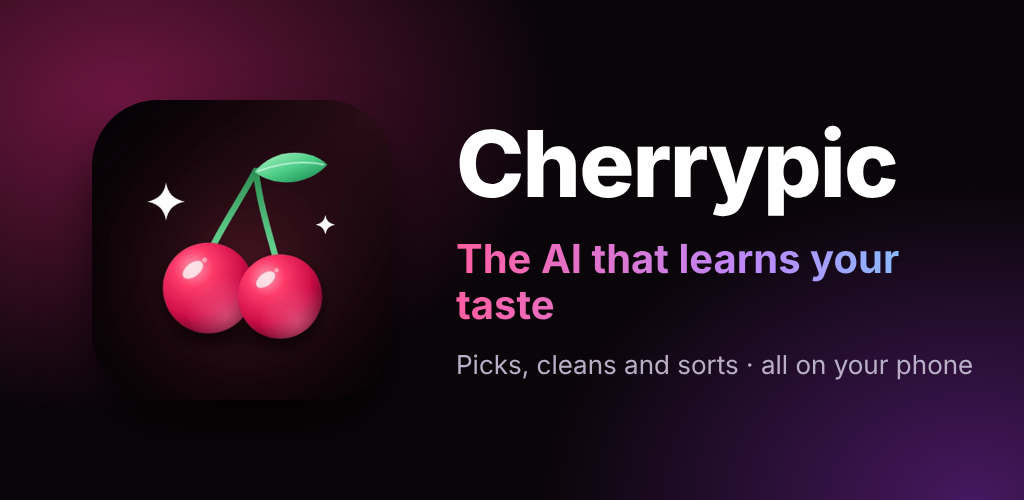
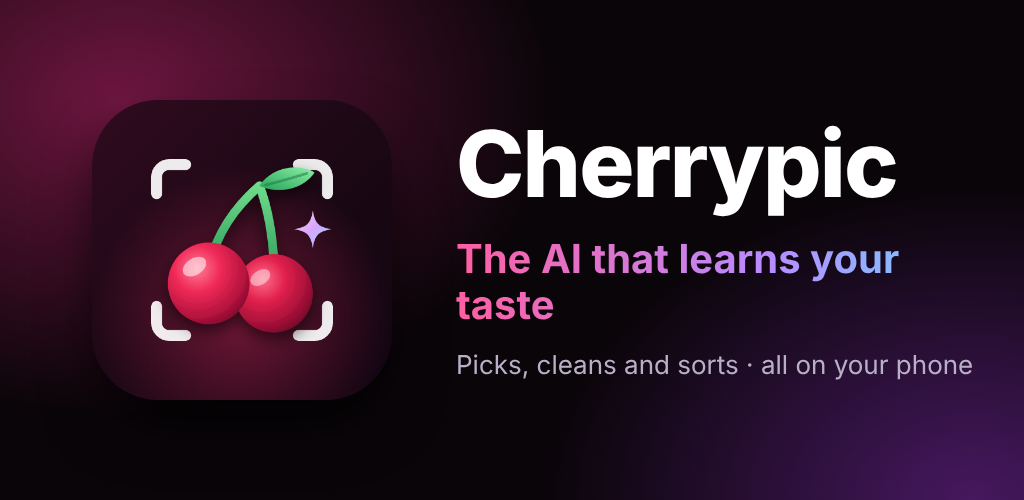
Pictograma nouă: cireșele în vizor, cu scânteia AI-ului
Aceeași pictogramă peste tot: lansator (adaptivă, rotundă, monocromă),
Play (512), web și grafica prezentată. Sursa vectorială: docs/play/icon-source.html.

Claude-Session: https://claude.ai/code/session_01HYqyt1saCQsqgsJoCCAbVx

Changed region(s): [[0.0625, 0.18, 0.3438, 0.81]]

diff --git a/docs/play/icon-source.html b/docs/play/icon-source.html
@@ -1,0 +1,84 @@
+<!doctype html>
+<html><head><meta charset="utf-8">
+<style>html,body{margin:0;background:transparent}svg{display:block}</style></head>
+<body>
+<!-- Pictograma Cherrypic. Pânza 108×108 = pânza unei pictograme adaptive Android;
+     tot ce e în prim-plan stă în cercul sigur de 66 (centrat la 54,54). -->
+<svg id="s" xmlns="http://www.w3.org/2000/svg" viewBox="0 0 108 108" width="1024" height="1024">
+  <defs>
+    <linearGradient id="bg" x1="0" y1="0" x2="1" y2="1">
+      <stop offset="0" stop-color="#3a0d24"/>
+      <stop offset=".55" stop-color="#1a0814"/>
+      <stop offset="1" stop-color="#0c0410"/>
+    </linearGradient>
+    <radialGradient id="glow" cx=".5" cy=".6" r=".45">
+      <stop offset="0" stop-color="#ff2f6d" stop-opacity=".38"/>
+      <stop offset="1" stop-color="#ff2f6d" stop-opacity="0"/>
+    </radialGradient>
+    <radialGradient id="cherry" cx=".36" cy=".32" r=".75">
+      <stop offset="0" stop-color="#ff7d97"/>
+      <stop offset=".38" stop-color="#f02a57"/>
+      <stop offset=".8" stop-color="#b3123d"/>
+      <stop offset="1" stop-color="#7d0c2c"/>
+    </radialGradient>
+    <radialGradient id="cherry2" cx=".36" cy=".32" r=".75">
+      <stop offset="0" stop-color="#ff6f8c"/>
+      <stop offset=".38" stop-color="#e2214d"/>
+      <stop offset=".8" stop-color="#a10f37"/>
+      <stop offset="1" stop-color="#6c0a26"/>
+    </radialGradient>
+    <linearGradient id="stem" x1="0" y1="1" x2="0" y2="0">
+      <stop offset="0" stop-color="#2f9e5b"/>
+      <stop offset="1" stop-color="#6fdc8c"/>
+    </linearGradient>
+    <linearGradient id="leaf" x1="0" y1="1" x2="1" y2="0">
+      <stop offset="0" stop-color="#25a35a"/>
+      <stop offset="1" stop-color="#8ef0a6"/>
+    </linearGradient>
+    <linearGradient id="ai" x1="0" y1="0" x2="1" y2="1">
+      <stop offset="0" stop-color="#ffd1e3"/>
+      <stop offset=".5" stop-color="#d7a6ff"/>
+      <stop offset="1" stop-color="#8fdcff"/>
+    </linearGradient>
+    <filter id="sh" x="-30%" y="-30%" width="160%" height="160%">
+      <feDropShadow dx="0" dy="1.6" stdDeviation="1.8" flood-color="#000" flood-opacity=".55"/>
+    </filter>
+  </defs>
+
+  <g id="bgLayer">
+    <rect width="108" height="108" fill="url(#bg)"/>
+    <circle cx="54" cy="62" r="40" fill="url(#glow)"/>
+  </g>
+
+  <g id="fgLayer">
+    <!-- Vizorul: alegerea unei poze. -->
+    <g fill="none" stroke="#fff" stroke-opacity=".92" stroke-width="2.6" stroke-linecap="round" stroke-linejoin="round">
+      <path d="M33.5 40.5 V36.5 a3 3 0 0 1 3 -3 H40.5"/>
+      <path d="M67.5 33.5 H71.5 a3 3 0 0 1 3 3 V40.5"/>
+      <path d="M74.5 67.5 V71.5 a3 3 0 0 1 -3 3 H67.5"/>
+      <path d="M40.5 74.5 H36.5 a3 3 0 0 1 -3 -3 V67.5"/>
+    </g>
+    <!-- Cozile și frunza. -->
+    <g filter="url(#sh)">
+      <path d="M46.2 57.5 C48 50 52 44 58.2 38.6" fill="none" stroke="url(#stem)" stroke-width="2.1" stroke-linecap="round"/>
+      <path d="M61.8 60 C61.6 52 60.6 45 58.2 38.6" fill="none" stroke="url(#stem)" stroke-width="2.1" stroke-linecap="round"/>
+      <path d="M58.2 38.6 C61 34.2 67.4 33 71.4 35.4 C68.6 39.6 62.4 40.6 58.2 38.6 Z" fill="url(#leaf)"/>
+      <path d="M59.6 38.4 C63 37.6 66.4 36.6 69.6 35.6" fill="none" stroke="#1f7a43" stroke-opacity=".55" stroke-width=".6" stroke-linecap="round"/>
+      <!-- Cireșele. -->
+      <circle cx="61.6" cy="64.4" r="9.4" fill="url(#cherry2)"/>
+      <circle cx="46" cy="62" r="9.8" fill="url(#cherry)"/>
+    </g>
+    <ellipse cx="42.6" cy="58" rx="3.1" ry="2" fill="#fff" fill-opacity=".55" transform="rotate(-32 42.6 58)"/>
+    <ellipse cx="58.4" cy="60.6" rx="2.6" ry="1.7" fill="#fff" fill-opacity=".45" transform="rotate(-32 58.4 60.6)"/>
+    <!-- Scânteia AI-ului. -->
+    <path d="M71 44.5 C71.5 47.6 72.4 48.5 75.5 49 C72.4 49.5 71.5 50.4 71 53.5 C70.5 50.4 69.6 49.5 66.5 49 C69.6 48.5 70.5 47.6 71 44.5 Z" fill="url(#ai)"/>
+  </g>
+</svg>
+<script>
+  const mode = new URLSearchParams(location.search).get('m') || 'full';
+  if (mode === 'full') document.getElementById('s').setAttribute('viewBox', '18 18 72 72');
+  if (mode === 'mask') { document.getElementById('s').setAttribute('viewBox', '11 11 86 86'); }
+  if (mode === 'fg') document.getElementById('bgLayer').remove();
+  if (mode === 'bg') document.getElementById('fgLayer').remove();
+</script>
+</body></html>
